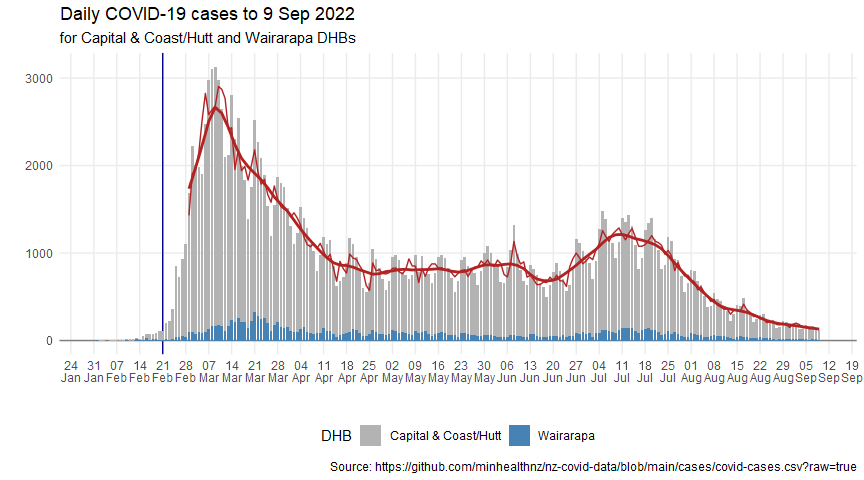
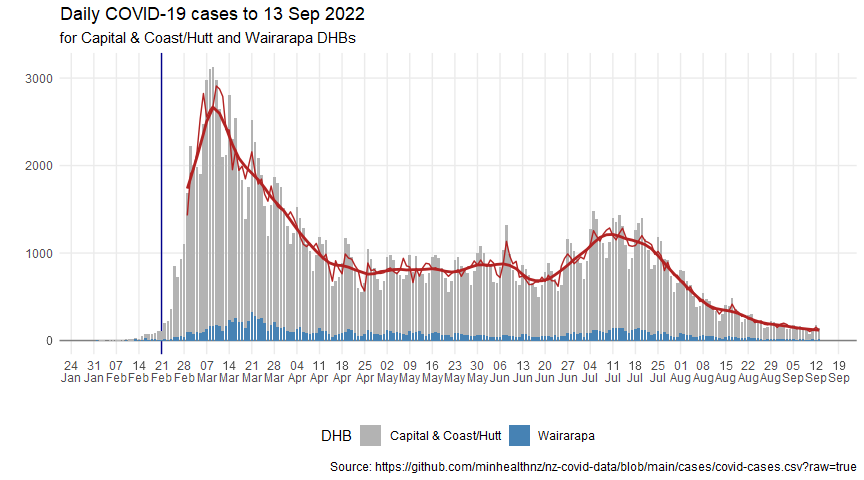
Last update from daily data (20220914)

Changed region(s): [[0.1562, 0.125, 0.9375, 0.7188], [0.125, 0.75, 1.0, 0.8125], [0.2812, 0.0, 0.4375, 0.0625]]

diff --git a/covid-post-peak-analysis.md b/covid-post-peak-analysis.md
@@ -34,7 +34,7 @@ cases_df <- read_csv(case_data_url) %>%
   clean_names()
 ```
 
-    ## Rows: 1757913 Columns: 7
+    ## Rows: 1763728 Columns: 7
     ## ── Column specification ────────────────────────────────────────────────────────
     ## Delimiter: ","
     ## chr  (5): Case Status, Sex, Age group, DHB, Overseas travel
@@ -51,7 +51,7 @@ cases_by_dhb_df <- cases_df %>%
   count(report_date, dhb, case_status)
 ```
 
-## Wellington figures up to 9 Sep 2022
+## Wellington figures up to 13 Sep 2022
 
 Including Hutt and Wairarapa as well as CCDHB.
 
@@ -171,11 +171,11 @@ maxima <- dhb_cases_after_transform_stl_df %>%
   summarise(cases = max(cases), adjusted = max(season_adjust), trend = max(trend))
 ```
 
-Looking at raw case numbers, the peak on 9 Mar 2022 was about 25.3 times
+Looking at raw case numbers, the peak on 9 Mar 2022 was about 40.7 times
 the lowest recent value.
 
-But when adjusting for the weekly pattern, it was 22.1 times the lowest
-recent adjusted value, and the trend was about 20.4 times the lowest
+But when adjusting for the weekly pattern, it was 28.3 times the lowest
+recent adjusted value, and the trend was about 22.5 times the lowest
 recent trend line.
 
 While the trend might be over-smoothed, the peak coincinded with the
